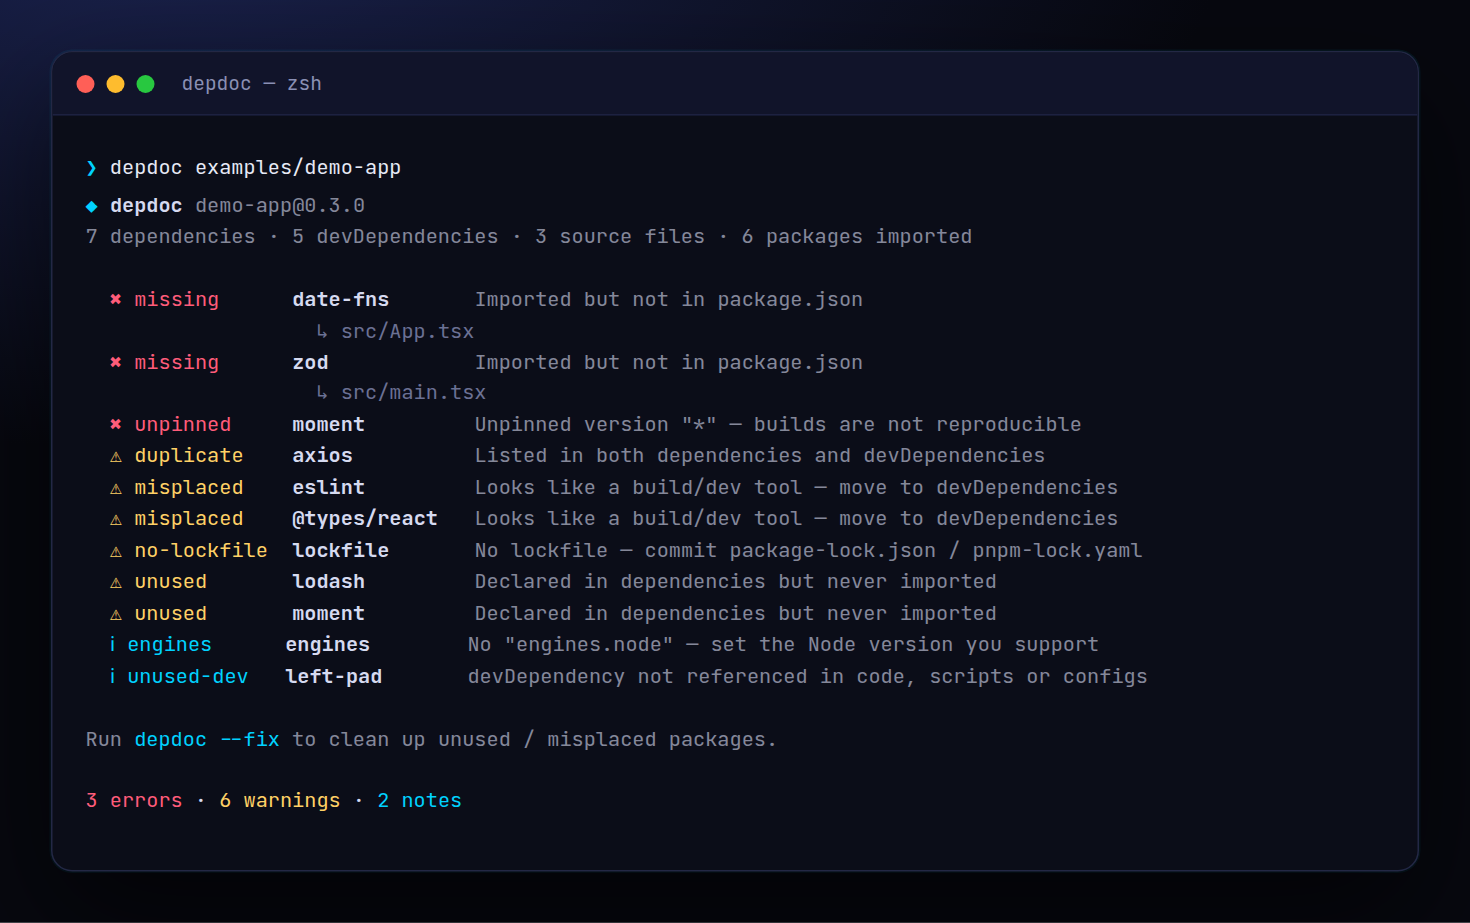
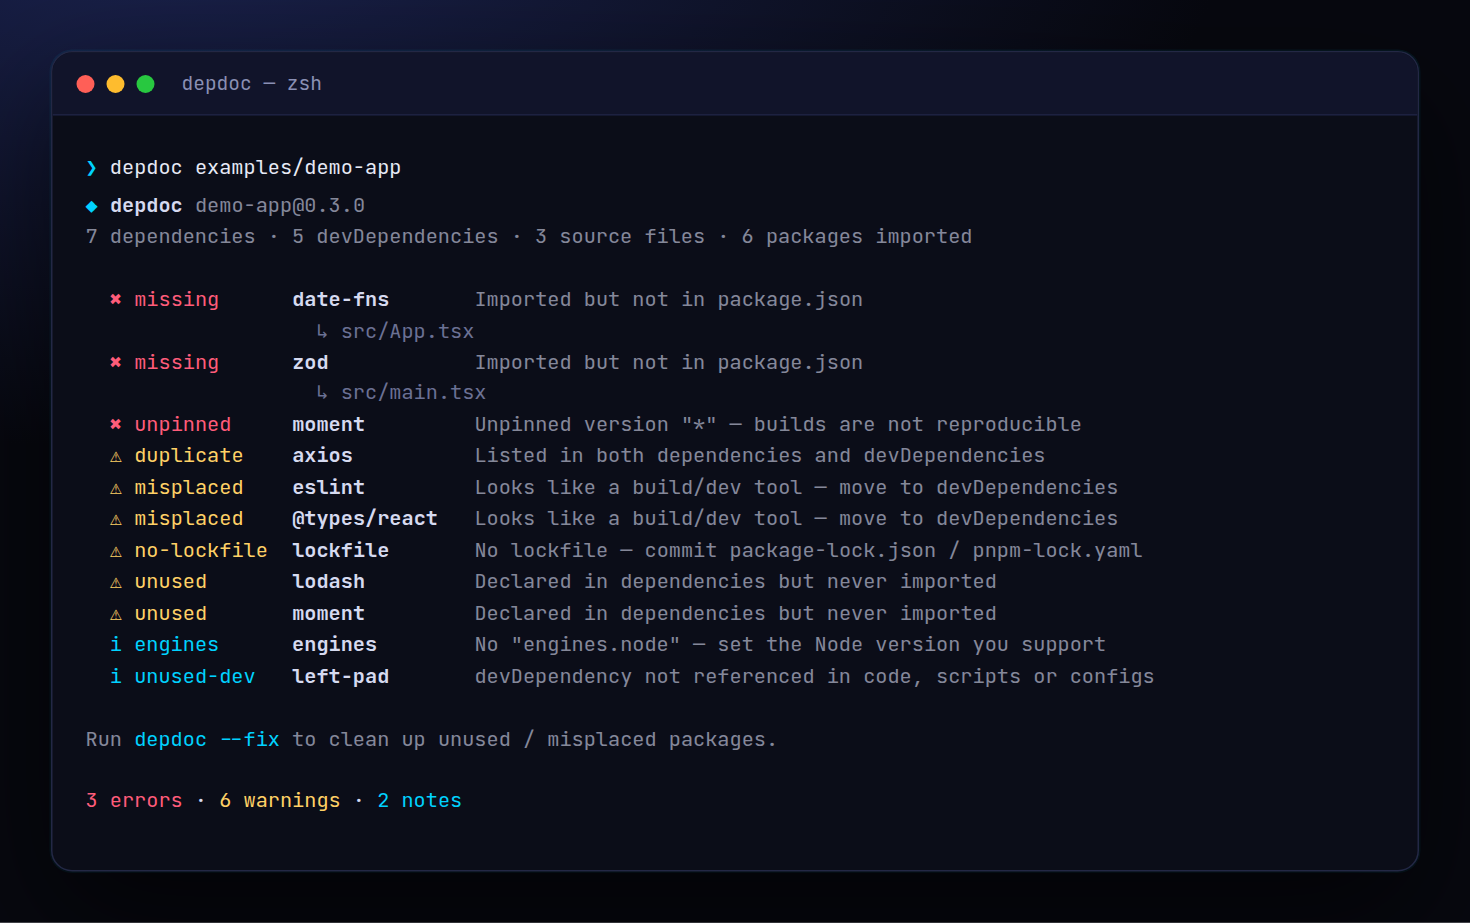
chore: update

Changed region(s): [[0.3061, 0.6674, 0.7959, 0.7584], [0.0918, 0.6674, 0.2755, 0.7584]]

diff --git a/bin/depdoc.js b/bin/depdoc.js
@@ -46,7 +46,7 @@ const root = path.resolve(a.positionals[0] || ".");
 
   console.log(header("depdoc", `${r.pkg.name || path.basename(root)}${r.pkg.version ? "@" + r.pkg.version : ""}`));
   console.log(c.dim(`${plural(r.counts.dependencies, "dependency", "dependencies")} · ${plural(r.counts.devDependencies, "devDependency", "devDependencies")} · ${plural(r.counts.files, "source file")} · ${r.counts.imported} packages imported`));
-  const ICON = { error: c.red("✖"), warn: c.yellow("⚠"), info: c.cyan("ℹ") };
+  const ICON = { error: c.red("✖"), warn: c.yellow("⚠"), info: c.cyan("i") };
   const COL = { error: c.red, warn: c.yellow, info: c.cyan };
   const order = { error: 0, warn: 1, info: 2 };
   if (!r.issues.length) console.log(`\n${c.green("✔")} Healthy. No dependency problems found.`);

diff --git a/README.md b/README.md
@@ -101,6 +101,7 @@ prism-dep-doctor/
 │   └── depdoc.test.js
 ├── .gitignore
 ├── LICENSE
+├── README.md
 └── package.json
 ```
 
